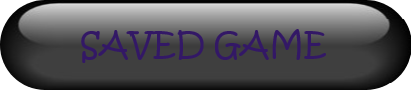
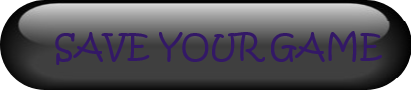
changes

Changed region(s): [[0.1168, 0.3111, 0.9343, 0.7111], [0.9343, 0.8667, 0.9635, 0.9111], [0.9343, 0.2, 0.9635, 0.2222]]

diff --git a/core/src/com/tank_stars/game/Choose_player2.java b/core/src/com/tank_stars/game/Choose_player2.java
@@ -24,6 +24,7 @@ public class Choose_player2 implements Screen {
     private Sprite Helios_tank_image;
     private Sprite Mark_1_tank_image;
     private Sprite T_34_tank_image;
+    private  Sprite back_button;
 
     private FreeTypeFontGenerator fontGenerator;
     private FreeTypeFontGenerator.FreeTypeFontParameter fontParameter1;
@@ -41,6 +42,7 @@ public class Choose_player2 implements Screen {
         this.T_34_tank_image = new Sprite(new Texture("t_34_tank.jpg"));
         this.Mark_1_tank_image = new Sprite(new Texture("Mark_tank.jpg"));
         this.Helios_tank_image = new Sprite(new Texture("Helios_tank_.jpg"));
+        this.back_button = new Sprite(new Texture("back_button.png"));
         this.background.setSize(this.w,this.h);
 
         this.Helios_tank_image.setSize(this.w/3-this.w/12,this.h/3);
@@ -51,6 +53,9 @@ public class Choose_player2 implements Screen {
 
         this.Mark_1_tank_image.setSize(this.w/3-this.w/12,this.h/3);
         this.Mark_1_tank_image.setPosition((this.w/12)+this.w/3-this.w/24,this.h/8);
+
+        this.back_button.setSize(this.w/6,this.h/12);
+        this.back_button.setPosition(this.w/2+this.w/4,this.h-this.h/10);
 
 
 
@@ -90,6 +95,8 @@ public class Choose_player2 implements Screen {
         font1.draw(batch,"HELIOS TANK",(this.w/12)-this.w/48,this.h/10);
         font1.draw(batch,"MARK TANK",(this.w/12)+this.w/3,this.h/10);
         font1.draw(batch,"T_34 TANK",(this.w/12)+2*this.w/3,this.h/10);
+        this.back_button.draw(this.batch);
+
         this.batch.end();
         this.inputhandle();
     }
@@ -113,6 +120,10 @@ public class Choose_player2 implements Screen {
 
                 tank_stars_game.setTank_1(new T_34_Tank());
                 tank_stars_game.setScreen(new Game_Screen(tank_stars_game));
+
+            }
+            else if (touchpos.x >= this.w/2+this.w/4 && touchpos.x <= this.w/2+this.w/4+ this.w/6&& touchpos.y >= this.h-this.h/10 && touchpos.y<=this.h-this.h/10+this.h/12) {
+                tank_stars_game.setScreen(new Main_Screen(tank_stars_game));
 
             }
         }

diff --git a/core/src/com/tank_stars/game/Game_Screen.java b/core/src/com/tank_stars/game/Game_Screen.java
@@ -18,6 +18,8 @@ public class Game_Screen implements Screen {
 
     private Sprite pause_button;
     private Sprite background;
+    private Sprite health_bar;
+    private Sprite health_bar2;
 
 
     private Sprite terror;
@@ -35,7 +37,11 @@ public class Game_Screen implements Screen {
         this.terror.setSize(this.w,this.h/2);
         this.background = new Sprite(new Texture("background.jpeg"));
         this.pause_button = new Sprite(new Texture("pause-button.jpg"));
+        this.health_bar = new Sprite(new Texture("health_bar.jpg"));
         this.background.setSize(this.w,this.h);
+        this.health_bar.setSize(this.w/20,this.h/20);
+        this.health_bar.setPosition(this.w/2-this.w/4,this.h-this.h/20);
+
         this.pause_button.setSize(this.w/20,this.h/20);
         this.pause_button.setPosition((this.w/2),this.h-this.h/20);
 
@@ -55,7 +61,7 @@ public class Game_Screen implements Screen {
         this.background.draw(this.batch);
         this.terror.draw(this.batch);
         this.pause_button.draw(this.batch);
-
+        this.health_bar.draw(this.batch);
 
         batch.end();
         inputhandle();

diff --git a/core/src/com/tank_stars/game/Resume_Screen.java b/core/src/com/tank_stars/game/Resume_Screen.java
@@ -59,10 +59,10 @@ public class Resume_Screen implements Screen, Serializable {
         this.batch = new SpriteBatch();
         this.bg = new Sprite(new Texture("saved_gamed.png"));
         this.bg.setSize(this.w,this.h);
-        this.resume_button = new Sprite(new Texture("new_game.png"));
-        this.saved_button = new Sprite(new Texture("new_game.png"));
-        this.exit_button = new Sprite(new Texture("new_game.png"));
-        this.back_button = new Sprite(new Texture("resume_game.png"));
+        this.resume_button = new Sprite(new Texture("saved_game1.png"));
+        this.saved_button = new Sprite(new Texture("saved_game2.png"));
+        this.exit_button = new Sprite(new Texture("saved_game3.png"));
+        this.back_button = new Sprite(new Texture("back_button.png"));
 
         this.resume_button.setSize(this.w/6,this.h/12);
         this.resume_button.setPosition((this.w/10)+this.w/3,this.h/30+this.h/2+this.h/5);

diff --git a/core/src/com/tank_stars/game/Choose_Player1.java b/core/src/com/tank_stars/game/Choose_Player1.java
@@ -43,7 +43,7 @@ public class Choose_Player1 implements Screen {
         this.T_34_tank_image = new Sprite(new Texture("t_34_tank.jpg"));
         this.Mark_1_tank_image = new Sprite(new Texture("Mark_tank.jpg"));
         this.Helios_tank_image = new Sprite(new Texture("Helios_tank_.jpg"));
-        this.back_button = new Sprite(new Texture("resume_game.png"));
+        this.back_button = new Sprite(new Texture("back_button.png"));
         this.background.setSize(this.w,this.h);
 
         this.Helios_tank_image.setSize(this.w/3-this.w/12,this.h/3);
